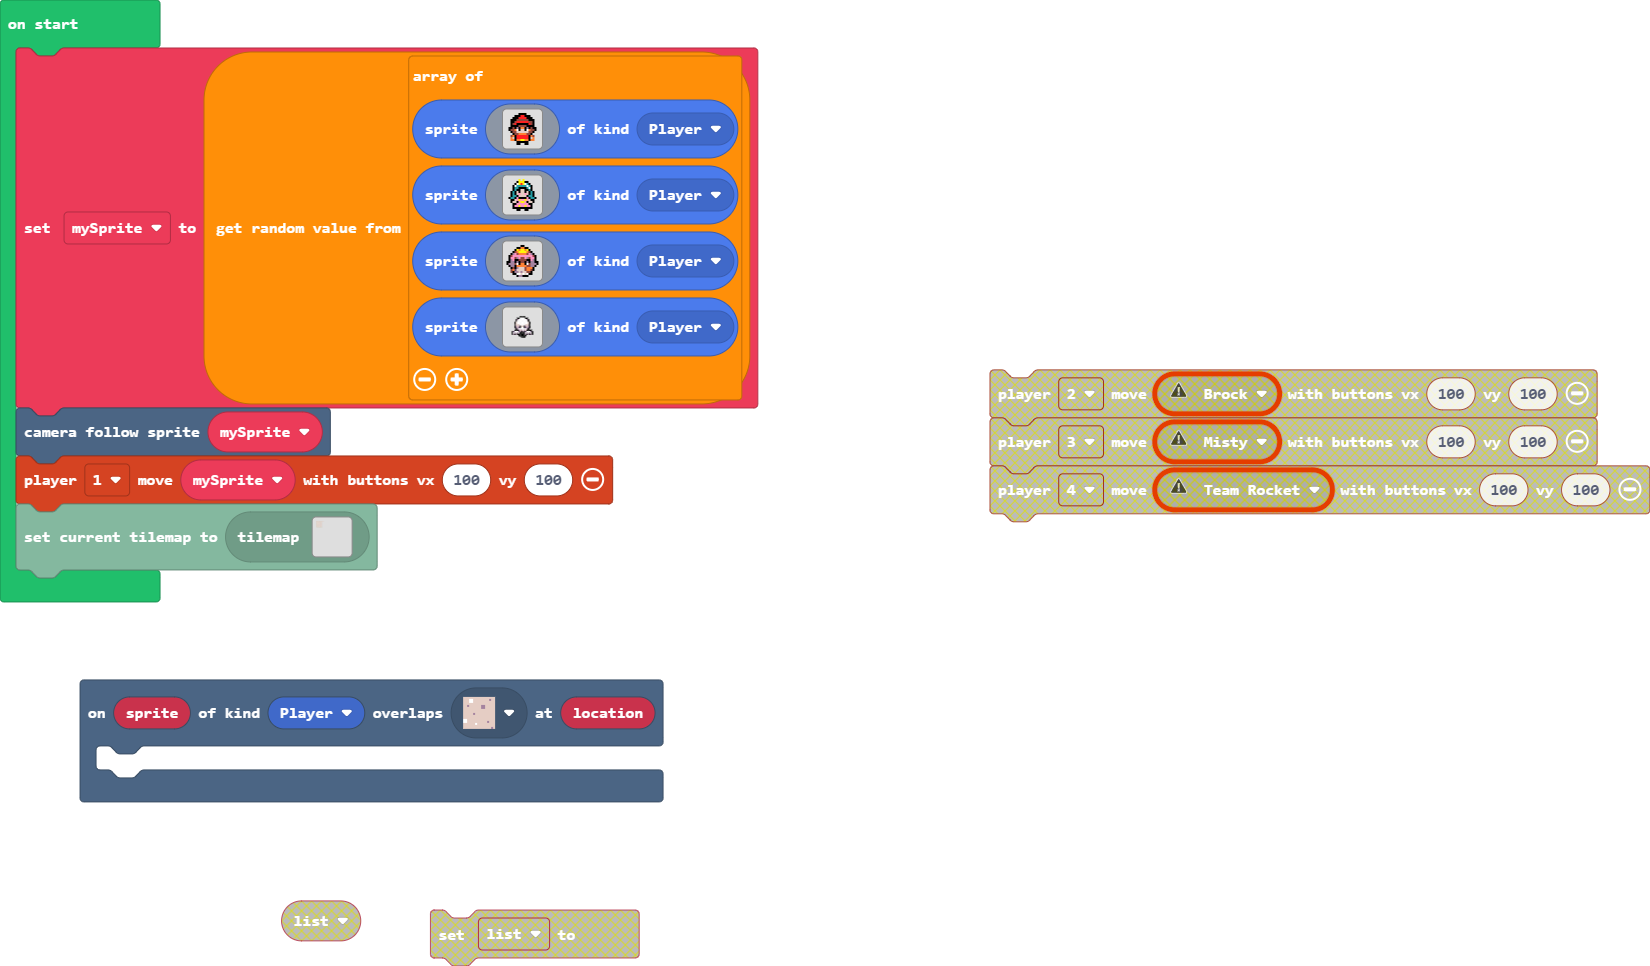
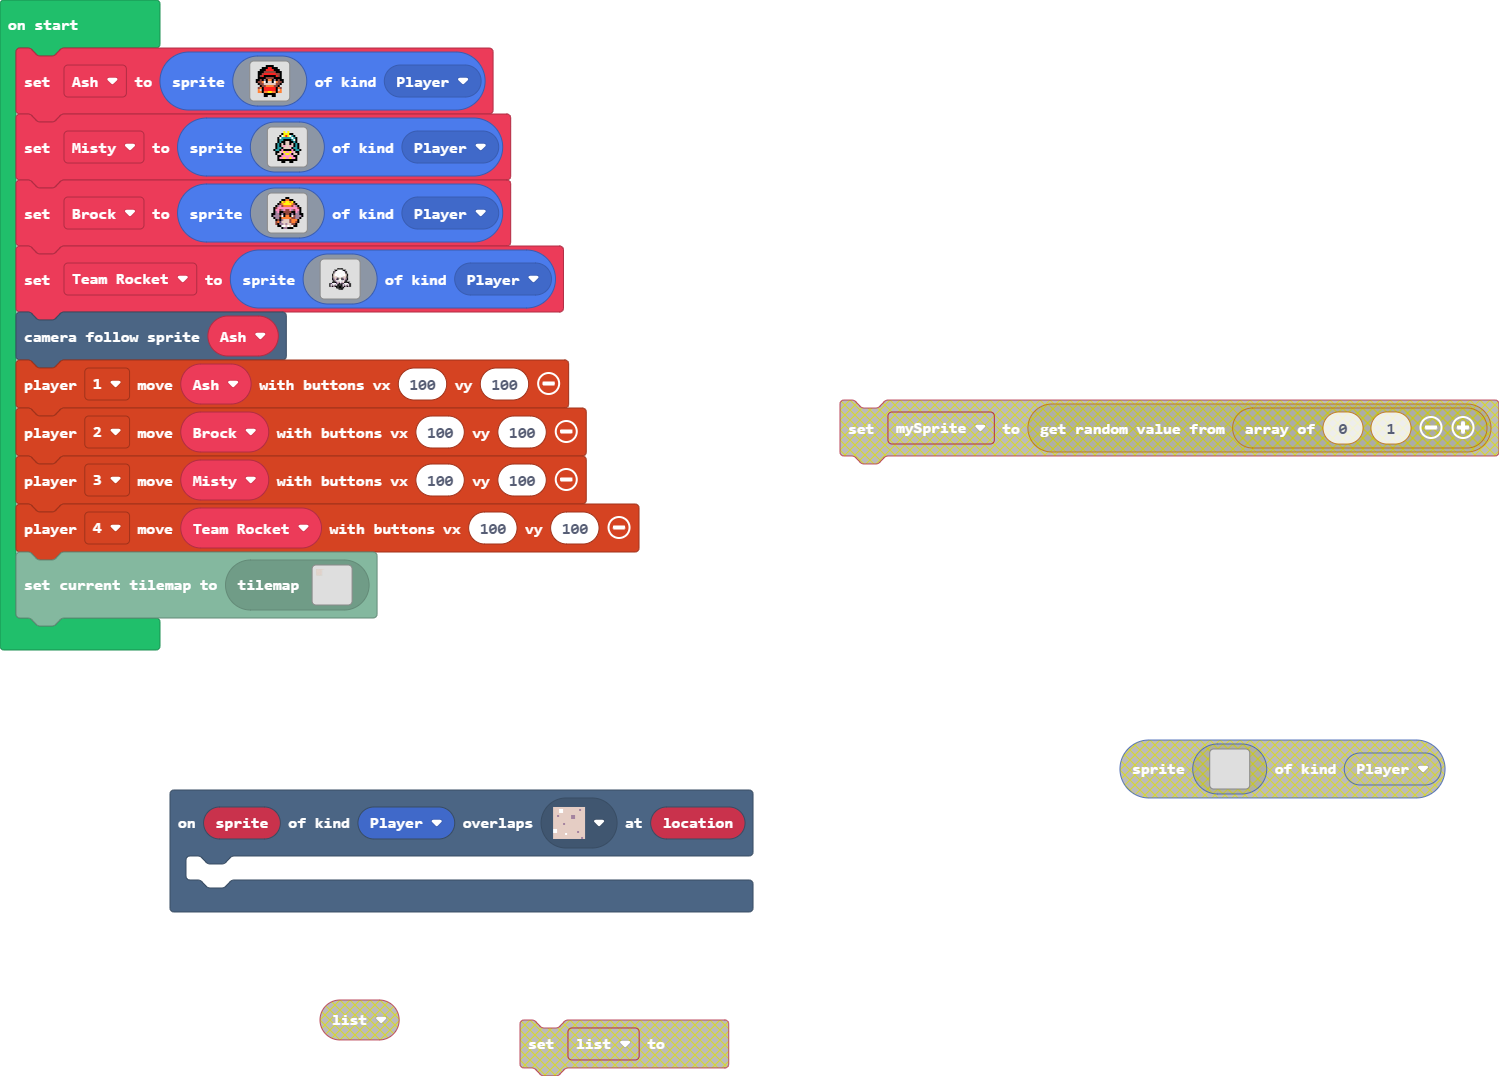
Update pxt.json, main.blocks, main.ts, tilemap.g.jres, tilemap.g.ts

diff --git a/tilemap.g.ts b/tilemap.g.ts
@@ -222,6 +222,82 @@ namespace myTiles {
 . . . . . . . . . . . . . . . . 
 . . . . . . . . . . . . . . . . 
 `, [myTiles.transparency16], TileScale.Sixteen);
+            case "level8":
+            case "level8":return tiles.createTilemap(hex`1000100000000000000000000000000000000000000000000000000000000000000000000000000000000000000000000000000000000000000000000000000000000000000000000000000000000000000000000000000000000000000000000000000000000000000000000000000000000000000000000000000000000000000000000000000000000000000000000000000000000000000000000000000000000000000000000000000000000000000000000000000000000000000000000000000000000000000000000000000000000000000000000000000000000000000000000000000000000000000000000000000000000000000000000000000000000000`, img`
+. . . . . . . . . . . . . . . . 
+. . . . . . . . . . . . . . . . 
+. . . . . . . . . . . . . . . . 
+. . . . . . . . . . . . . . . . 
+. . . . . . . . . . . . . . . . 
+. . . . . . . . . . . . . . . . 
+. . . . . . . . . . . . . . . . 
+. . . . . . . . . . . . . . . . 
+. . . . . . . . . . . . . . . . 
+. . . . . . . . . . . . . . . . 
+. . . . . . . . . . . . . . . . 
+. . . . . . . . . . . . . . . . 
+. . . . . . . . . . . . . . . . 
+. . . . . . . . . . . . . . . . 
+. . . . . . . . . . . . . . . . 
+. . . . . . . . . . . . . . . . 
+`, [myTiles.transparency16], TileScale.Sixteen);
+            case "level9":
+            case "level9":return tiles.createTilemap(hex`1000100000000000000000000000000000000000000000000000000000000000000000000000000000000000000000000000000000000000000000000000000000000000000000000000000000000000000000000000000000000000000000000000000000000000000000000000000000000000000000000000000000000000000000000000000000000000000000000000000000000000000000000000000000000000000000000000000000000000000000000000000000000000000000000000000000000000000000000000000000000000000000000000000000000000000000000000000000000000000000000000000000000000000000000000000000000000`, img`
+. . . . . . . . . . . . . . . . 
+. . . . . . . . . . . . . . . . 
+. . . . . . . . . . . . . . . . 
+. . . . . . . . . . . . . . . . 
+. . . . . . . . . . . . . . . . 
+. . . . . . . . . . . . . . . . 
+. . . . . . . . . . . . . . . . 
+. . . . . . . . . . . . . . . . 
+. . . . . . . . . . . . . . . . 
+. . . . . . . . . . . . . . . . 
+. . . . . . . . . . . . . . . . 
+. . . . . . . . . . . . . . . . 
+. . . . . . . . . . . . . . . . 
+. . . . . . . . . . . . . . . . 
+. . . . . . . . . . . . . . . . 
+. . . . . . . . . . . . . . . . 
+`, [myTiles.transparency16], TileScale.Sixteen);
+            case "level10":
+            case "level10":return tiles.createTilemap(hex`1000100000000000000000000000000000000000000000000000000000000000000000000000000000000000000000000000000000000000000000000000000000000000000000000000000000000000000000000000000000000000000000000000000000000000000000000000000000000000000000000000000000000000000000000000000000000000000000000000000000000000000000000000000000000000000000000000000000000000000000000000000000000000000000000000000000000000000000000000000000000000000000000000000000000000000000000000000000000000000000000000000000000000000000000000000000000000`, img`
+. . . . . . . . . . . . . . . . 
+. . . . . . . . . . . . . . . . 
+. . . . . . . . . . . . . . . . 
+. . . . . . . . . . . . . . . . 
+. . . . . . . . . . . . . . . . 
+. . . . . . . . . . . . . . . . 
+. . . . . . . . . . . . . . . . 
+. . . . . . . . . . . . . . . . 
+. . . . . . . . . . . . . . . . 
+. . . . . . . . . . . . . . . . 
+. . . . . . . . . . . . . . . . 
+. . . . . . . . . . . . . . . . 
+. . . . . . . . . . . . . . . . 
+. . . . . . . . . . . . . . . . 
+. . . . . . . . . . . . . . . . 
+. . . . . . . . . . . . . . . . 
+`, [myTiles.transparency16], TileScale.Sixteen);
+            case "level11":
+            case "level11":return tiles.createTilemap(hex`1000100000000000000000000000000000000000000000000000000000000000000000000000000000000000000000000000000000000000000000000000000000000000000000000000000000000000000000000000000000000000000000000000000000000000000000000000000000000000000000000000000000000000000000000000000000000000000000000000000000000000000000000000000000000000000000000000000000000000000000000000000000000000000000000000000000000000000000000000000000000000000000000000000000000000000000000000000000000000000000000000000000000000000000000000000000000000`, img`
+. . . . . . . . . . . . . . . . 
+. . . . . . . . . . . . . . . . 
+. . . . . . . . . . . . . . . . 
+. . . . . . . . . . . . . . . . 
+. . . . . . . . . . . . . . . . 
+. . . . . . . . . . . . . . . . 
+. . . . . . . . . . . . . . . . 
+. . . . . . . . . . . . . . . . 
+. . . . . . . . . . . . . . . . 
+. . . . . . . . . . . . . . . . 
+. . . . . . . . . . . . . . . . 
+. . . . . . . . . . . . . . . . 
+. . . . . . . . . . . . . . . . 
+. . . . . . . . . . . . . . . . 
+. . . . . . . . . . . . . . . . 
+. . . . . . . . . . . . . . . . 
+`, [myTiles.transparency16], TileScale.Sixteen);
         }
         return null;
     })

diff --git a/main.ts b/main.ts
@@ -1,8 +1,7 @@
 scene.onOverlapTile(SpriteKind.Player, sprites.castle.tilePath5, function (sprite, location) {
 	
 })
-let mySprite = [
-sprites.create(img`
+let Ash = sprites.create(img`
     . . . . . . f f f f . . . . . . 
     . . . . f f f 2 2 f f f . . . . 
     . . . f f f 2 2 2 2 f f f . . . 
@@ -19,8 +18,8 @@ sprites.create(img`
     . . 4 4 f 4 4 5 5 4 4 f 4 4 . . 
     . . . . . f f f f f f . . . . . 
     . . . . . f f . . f f . . . . . 
-    `, SpriteKind.Player),
-sprites.create(img`
+    `, SpriteKind.Player)
+let Misty = sprites.create(img`
     . . . . . . 5 . 5 . . . . . . . 
     . . . . . f 5 5 5 f f . . . . . 
     . . . . f 1 5 2 5 1 6 f . . . . 
@@ -37,8 +36,8 @@ sprites.create(img`
     . . . f 3 3 5 3 3 5 3 3 f . . . 
     . . . f f f f f f f f f f . . . 
     . . . . . f f . . f f . . . . . 
-    `, SpriteKind.Player),
-sprites.create(img`
+    `, SpriteKind.Player)
+let Brock = sprites.create(img`
     . . . . . . . f f . . . . . . . 
     . . . . . f f 4 4 f f . . . . . 
     . . . . f 5 4 5 5 4 5 f . . . . 
@@ -55,8 +54,8 @@ sprites.create(img`
     . . e f b b d b d d e e f . . . 
     . . . f f 1 1 d 1 d 1 f f . . . 
     . . . . . f b b f f f . . . . . 
-    `, SpriteKind.Player),
-sprites.create(img`
+    `, SpriteKind.Player)
+let Team_Rocket = sprites.create(img`
     ........................
     ........................
     ........................
@@ -82,7 +81,9 @@ sprites.create(img`
     ........................
     ........................
     `, SpriteKind.Player)
-]._pickRandom()
-scene.cameraFollowSprite(mySprite)
-controller.player1.moveSprite(mySprite, 100, 100)
+scene.cameraFollowSprite(Ash)
+controller.player1.moveSprite(Ash, 100, 100)
+controller.player2.moveSprite(Brock, 100, 100)
+controller.player3.moveSprite(Misty, 100, 100)
+controller.player4.moveSprite(Team_Rocket, 100, 100)
 tiles.loadMap(tiles.createMap(tilemap`level1`))
